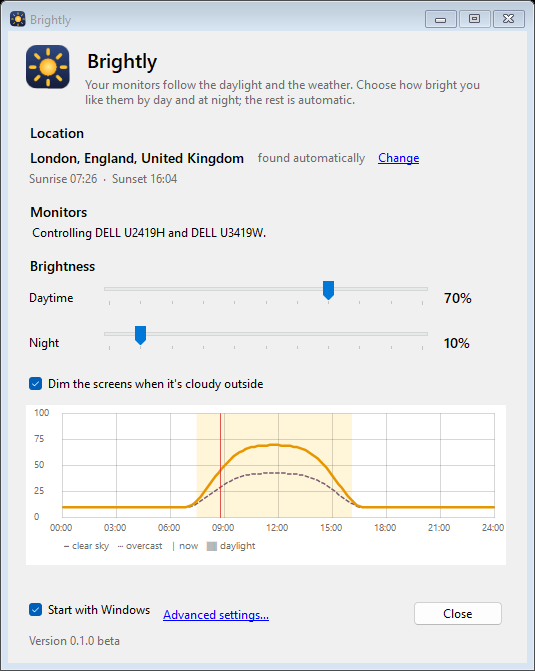
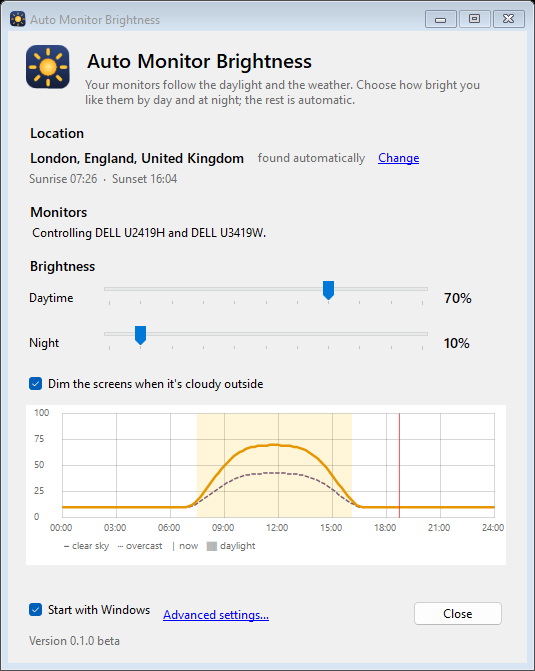
Rename to Auto Monitor Brightness
New exe, folders, startup entry and window titles. Existing Brightly
installs are migrated on first start: settings move over, the old copy is
stopped and removed, and the startup entry is replaced.

Changed region(s): [[0.0598, 0.0, 0.5981, 0.1192]]

diff --git a/src/Infra.cs b/src/Infra.cs
@@ -1,13 +1,13 @@
 using System.Runtime.InteropServices;
 using Microsoft.Win32;
 
-namespace Brightly;
+namespace AutoMonitorBrightness;
 
 public static class Log
 {
     public static readonly string Dir = Path.Combine(
-        Environment.GetFolderPath(Environment.SpecialFolder.ApplicationData), "Brightly");
-    public static string FilePath => Path.Combine(Dir, "brightly.log");
+        Environment.GetFolderPath(Environment.SpecialFolder.ApplicationData), "AutoMonitorBrightness");
+    public static string FilePath => Path.Combine(Dir, "AutoMonitorBrightness.log");
     static readonly object Sync = new();
     /// <summary>Turned off during uninstall so nothing recreates the data folder.</summary>
     public static bool Enabled = true;
@@ -36,7 +36,7 @@ public static class Autostart
     // Windows' own on/off switch for each Run entry (Settings → Apps → Startup, Task Manager → Startup apps).
     // Recent Windows 11 builds skip a Run entry that has no record here, so we write "enabled" ourselves.
     const string ApprovedPath = @"Software\Microsoft\Windows\CurrentVersion\Explorer\StartupApproved\Run";
-    const string Name = "Brightly";
+    const string Name = "AutoMonitorBrightness";
     static string Command => $"\"{Environment.ProcessPath}\" --autostart";
 
     /// <summary>True when the Run entry exists and Windows hasn't switched it off in Startup apps.</summary>
@@ -101,7 +101,7 @@ public sealed class PowerWatcher : NativeWindow, IDisposable
 
     public PowerWatcher()
     {
-        CreateHandle(new CreateParams { Caption = "BrightlyPowerWatcher" });
+        CreateHandle(new CreateParams { Caption = "AutoMonitorBrightnessPowerWatcher" });
         var g = Native.GUID_CONSOLE_DISPLAY_STATE;
         notification = Native.RegisterPowerSettingNotification(Handle, ref g, 0);
     }
@@ -153,18 +153,18 @@ public static class AppIcon
 
     static Icon Load()
     {
-        using var s = typeof(AppIcon).Assembly.GetManifestResourceStream("Brightly.ico")!;
+        using var s = typeof(AppIcon).Assembly.GetManifestResourceStream("AutoMonitorBrightness.ico")!;
         return new Icon(s);
     }
 }
 
-/// <summary>Keeps one copy of Brightly in %LOCALAPPDATA%\Programs\Brightly so autostart survives a cleaned Downloads folder.</summary>
+/// <summary>Keeps one copy of Auto Monitor Brightness in %LOCALAPPDATA%\Programs\AutoMonitorBrightness so autostart survives a cleaned Downloads folder.</summary>
 public static class Installer
 {
     public static readonly string Dir = Path.Combine(
-        Environment.GetFolderPath(Environment.SpecialFolder.LocalApplicationData), "Programs", "Brightly");
+        Environment.GetFolderPath(Environment.SpecialFolder.LocalApplicationData), "Programs", "AutoMonitorBrightness");
 
-    public static string InstalledExe => Path.Combine(Dir, "Brightly.exe");
+    public static string InstalledExe => Path.Combine(Dir, "AutoMonitorBrightness.exe");
 
     public static bool IsInstalledCopy =>
         string.Equals(Path.GetFullPath(Environment.ProcessPath ?? ""), Path.GetFullPath(InstalledExe), StringComparison.OrdinalIgnoreCase);
@@ -200,6 +200,52 @@ public static class Installer
             {
                 CreateNoWindow = true, UseShellExecute = false,
             });
+        }
+    }
+}
+
+/// <summary>One-time move from the app's old name (Brightly): settings, startup entry and the old program folder.</summary>
+public static class Migration
+{
+    const string OldName = "Brightly";
+
+    public static void FromOldName()
+    {
+        try
+        {
+            // Stop an old copy so the two don't fight over the monitors.
+            foreach (var p in System.Diagnostics.Process.GetProcessesByName(OldName))
+            {
+                try { p.Kill(); p.WaitForExit(3000); } catch { /* not ours to stop, or already gone */ }
+                p.Dispose();
+            }
+
+            var oldData = Path.Combine(Environment.GetFolderPath(Environment.SpecialFolder.ApplicationData), OldName);
+            var oldSettings = Path.Combine(oldData, "settings.json");
+            if (File.Exists(oldSettings) && !AppSettings.Exists)
+            {
+                Directory.CreateDirectory(Log.Dir);
+                File.Copy(oldSettings, AppSettings.FilePath);
+                Log.Write("Moved settings from the old Brightly install");
+            }
+            if (Directory.Exists(oldData)) Directory.Delete(oldData, true);
+
+            bool hadAutostart;
+            using (var run = Registry.CurrentUser.OpenSubKey(@"Software\Microsoft\Windows\CurrentVersion\Run", true))
+            {
+                hadAutostart = run?.GetValue(OldName) is string;
+                run?.DeleteValue(OldName, false);
+            }
+            using (var approved = Registry.CurrentUser.OpenSubKey(@"Software\Microsoft\Windows\CurrentVersion\Explorer\StartupApproved\Run", true))
+                approved?.DeleteValue(OldName, false);
+            if (hadAutostart) Autostart.Set(true);
+
+            var oldProgram = Path.Combine(Environment.GetFolderPath(Environment.SpecialFolder.LocalApplicationData), "Programs", OldName);
+            if (Directory.Exists(oldProgram)) Directory.Delete(oldProgram, true);
+        }
+        catch (Exception ex)
+        {
+            Log.Write("Migration from Brightly incomplete: " + ex.Message);
         }
     }
 }

diff --git a/src/TrayApp.cs b/src/TrayApp.cs
@@ -1,7 +1,7 @@
 using System.Diagnostics;
 using Microsoft.Win32;
 
-namespace Brightly;
+namespace AutoMonitorBrightness;
 
 public sealed class TrayApp : ApplicationContext
 {
@@ -38,7 +38,7 @@ public sealed class TrayApp : ApplicationContext
         advanced.DropDownItems.Add("Re-apply brightness now", null, (_, _) => _ = ctl.TickAsync(TickKind.Force, "re-apply requested"));
         advanced.DropDownItems.Add("Open log", null, (_, _) => OpenLog());
         advanced.DropDownItems.Add(new ToolStripSeparator());
-        advanced.DropDownItems.Add("Uninstall Brightly…", null, (_, _) => Uninstall());
+        advanced.DropDownItems.Add("Uninstall Auto Monitor Brightness…", null, (_, _) => Uninstall());
 
         var settings = new ToolStripMenuItem("Settings…", null, (_, _) => ShowSettings()) { Font = new Font(menu.Font, FontStyle.Bold) };
         menu.Items.AddRange(new ToolStripItem[]
@@ -52,7 +52,7 @@ public sealed class TrayApp : ApplicationContext
         menu.Opening += (_, _) => RefreshMenu();
 
         trayIcon = AppIcon.Sized(SystemInformation.SmallIconSize);
-        tray = new NotifyIcon { ContextMenuStrip = menu, Icon = trayIcon, Text = "Brightly", Visible = true };
+        tray = new NotifyIcon { ContextMenuStrip = menu, Icon = trayIcon, Text = "Auto Monitor Brightness", Visible = true };
         tray.MouseClick += (_, e) => { if (e.Button == MouseButtons.Left) ToggleSlider(); };
         tray.BalloonTipClicked += (_, _) => ShowSettings();
 
@@ -128,7 +128,7 @@ public sealed class TrayApp : ApplicationContext
 
     void RefreshUi()
     {
-        var tip = "Brightly\n" + StatusText();
+        var tip = "Auto Monitor Brightness\n" + StatusText();
         tray.Text = tip.Length > 127 ? tip[..127] : tip;
         if (menu.Visible) RefreshMenu();
         if (slider is { Visible: true }) slider.SetStatus(ShownBrightness(), StatusText());
@@ -138,7 +138,7 @@ public sealed class TrayApp : ApplicationContext
         if (!ctl.Settings.HasLocation && ctl.LocationError != null && !ctl.DetectingLocation && !windowOpen && !locationBalloonShown)
         {
             locationBalloonShown = true;
-            tray.ShowBalloonTip(10000, "Brightly", "Couldn't find your location automatically. Click here to choose your city.", ToolTipIcon.Info);
+            tray.ShowBalloonTip(10000, "Auto Monitor Brightness", "Couldn't find your location automatically. Click here to choose your city.", ToolTipIcon.Info);
         }
     }
 
@@ -183,9 +183,9 @@ public sealed class TrayApp : ApplicationContext
     void Uninstall()
     {
         var answer = MessageBox.Show(
-            "Remove Brightly from this PC?\n\nThis stops it, removes it from startup and deletes its settings. " +
+            "Remove Auto Monitor Brightness from this PC?\n\nThis stops it, removes it from startup and deletes its settings. " +
             "Your monitors stay at their current brightness.",
-            "Uninstall Brightly", MessageBoxButtons.OKCancel, MessageBoxIcon.Question, MessageBoxDefaultButton.Button2);
+            "Uninstall Auto Monitor Brightness", MessageBoxButtons.OKCancel, MessageBoxIcon.Question, MessageBoxDefaultButton.Button2);
         if (answer != DialogResult.OK) return;
         ExitThread();
         Installer.Uninstall();
@@ -193,7 +193,7 @@ public sealed class TrayApp : ApplicationContext
 
     protected override void ExitThreadCore()
     {
-        Log.Write("Brightly exiting");
+        Log.Write("Auto Monitor Brightness exiting");
         SystemEvents.SessionSwitch -= OnSessionSwitch;
         showWait.Unregister(null);
         ctl.Dispose();
@@ -225,7 +225,7 @@ public sealed class SliderPopup : Form
         AutoScaleDimensions = new SizeF(96F, 96F);
         AutoScaleMode = AutoScaleMode.Dpi;
         FormBorderStyle = FormBorderStyle.FixedToolWindow;
-        Text = "Brightly";
+        Text = "Auto Monitor Brightness";
         Font = new Font("Segoe UI", 9F);
         ShowInTaskbar = false;
         TopMost = true;

diff --git a/src/SettingsForm.cs b/src/SettingsForm.cs
@@ -1,4 +1,4 @@
-namespace Brightly;
+namespace AutoMonitorBrightness;
 
 /// <summary>
 /// The everyday window: where you are (found automatically), which monitors were found, and how bright you
@@ -39,7 +39,7 @@ public sealed class SettingsForm : Form
         SuspendLayout();
         AutoScaleDimensions = new SizeF(96F, 96F);
         AutoScaleMode = AutoScaleMode.Dpi;
-        Text = "Brightly";
+        Text = "Auto Monitor Brightness";
         Icon = AppIcon.Full;
         Font = new Font("Segoe UI", 9F);
         StartPosition = FormStartPosition.CenterScreen;
@@ -179,7 +179,7 @@ public sealed class SettingsForm : Form
             Image = new Icon(AppIcon.Full, 48, 48).ToBitmap(), SizeMode = PictureBoxSizeMode.Zoom,
             Size = new Size(44, 44), Margin = new Padding(0, 0, 12, 0),
         };
-        var title = new Label { Text = "Brightly", AutoSize = true, Font = new Font("Segoe UI Semibold", 15F), Margin = Padding.Empty };
+        var title = new Label { Text = "Auto Monitor Brightness", AutoSize = true, Font = new Font("Segoe UI Semibold", 15F), Margin = Padding.Empty };
         var sub = Grey("Your monitors follow the daylight and the weather. Choose how bright you like them by day and at night; the rest is automatic.");
         sub.MaximumSize = new Size(420, 0);
         var text = new FlowLayoutPanel { FlowDirection = FlowDirection.TopDown, AutoSize = true, WrapContents = false, Margin = Padding.Empty };
@@ -351,7 +351,7 @@ public sealed class SettingsForm : Form
         if (list.Count == 0)
             return !ctl.MonitorsScanned
                 ? "Looking for monitors…"
-                : "No external monitor found yet. Brightly controls monitors that support DDC/CI (most do; built-in laptop screens aren't supported yet).";
+                : "No external monitor found yet. Auto Monitor Brightness controls monitors that support DDC/CI (most do; built-in laptop screens aren't supported yet).";
         var ok = list.Where(m => m.Reachable).Select(m => m.Name).ToList();
         var bad = list.Where(m => !m.Reachable).Select(m => m.Name).ToList();
         var text = ok.Count switch

diff --git a/src/Program.cs b/src/Program.cs
@@ -1,4 +1,4 @@
-namespace Brightly;
+namespace AutoMonitorBrightness;
 
 internal static class Program
 {
@@ -8,15 +8,15 @@ internal static class Program
         if (args.Length > 0 && args[0] == "--selftest")
             return SelfTest.Run(args.Skip(1).ToArray());
 
-        using var mutex = new Mutex(true, @"Local\Brightly-SingleInstance", out bool first);
-        using var showSignal = new EventWaitHandle(false, EventResetMode.AutoReset, @"Local\Brightly-ShowSettings");
+        using var mutex = new Mutex(true, @"Local\AutoMonitorBrightness-SingleInstance", out bool first);
+        using var showSignal = new EventWaitHandle(false, EventResetMode.AutoReset, @"Local\AutoMonitorBrightness-ShowSettings");
         if (!first)
         {
             showSignal.Set(); // already running: just open its settings window
             return 0;
         }
 
-        // Run from Downloads (or anywhere else)? Copy into %LOCALAPPDATA%\Programs\Brightly and start that copy,
+        // Run from Downloads (or anywhere else)? Copy into %LOCALAPPDATA%\Programs\AutoMonitorBrightness and start that copy,
         // so autostart keeps working after the download is cleaned up. --portable skips this.
         if (!Installer.IsInstalledCopy && !args.Contains("--portable") && !args.Contains("--autostart") && Installer.TryInstallSelf())
         {
@@ -31,6 +31,7 @@ internal static class Program
         Application.ThreadException += (_, e) => Log.Write("UI error: " + e.Exception);
         AppDomain.CurrentDomain.UnhandledException += (_, e) => Log.Write("Fatal: " + e.ExceptionObject);
 
+        Migration.FromOldName();
         bool firstRun = !AppSettings.Exists;
         var settings = AppSettings.Load();
         if (firstRun)

diff --git a/src/AdvancedForm.cs b/src/AdvancedForm.cs
@@ -2,7 +2,7 @@ using System.Diagnostics;
 using System.Drawing.Drawing2D;
 using System.Globalization;
 
-namespace Brightly;
+namespace AutoMonitorBrightness;
 
 public sealed class AdvancedForm : Form
 {
@@ -50,7 +50,7 @@ public sealed class AdvancedForm : Form
         SuspendLayout();
         AutoScaleDimensions = new SizeF(96F, 96F);
         AutoScaleMode = AutoScaleMode.Dpi;
-        Text = "Brightly · Advanced settings";
+        Text = "Auto Monitor Brightness · Advanced settings";
         Icon = AppIcon.Full;
         StartPosition = FormStartPosition.CenterScreen;
         ClientSize = new Size(760, 740);
@@ -387,7 +387,7 @@ public sealed class AdvancedForm : Form
         var s = Build(errors);
         if (errors.Count > 0)
         {
-            MessageBox.Show(this, string.Join("\n", errors), "Brightly", MessageBoxButtons.OK, MessageBoxIcon.Warning);
+            MessageBox.Show(this, string.Join("\n", errors), "Auto Monitor Brightness", MessageBoxButtons.OK, MessageBoxIcon.Warning);
             return;
         }
         try
@@ -399,7 +399,7 @@ public sealed class AdvancedForm : Form
         }
         catch (Exception ex)
         {
-            MessageBox.Show(this, "Could not save settings: " + ex.Message, "Brightly", MessageBoxButtons.OK, MessageBoxIcon.Error);
+            MessageBox.Show(this, "Could not save settings: " + ex.Message, "Auto Monitor Brightness", MessageBoxButtons.OK, MessageBoxIcon.Error);
         }
     }
 

diff --git a/src/Controller.cs b/src/Controller.cs
@@ -1,4 +1,4 @@
-namespace Brightly;
+namespace AutoMonitorBrightness;
 
 public enum TickKind
 {
@@ -40,7 +40,7 @@ public sealed class Controller : IDisposable
 
     public void Start()
     {
-        Log.Write("Brightly started");
+        Log.Write("Auto Monitor Brightness started");
         _ = TickAsync(TickKind.Wake, "startup");
         _ = DetectLocationAsync();
         timer = new System.Threading.Timer(_ =>
@@ -259,7 +259,7 @@ public sealed class Controller : IDisposable
                 {
                     PausedUntilUtc = now.AddMinutes(Math.Max(5, s.OverrideMinutes));
                     PauseReason = $"manual change on {m.Name}";
-                    Log.Write($"{m.Name}: brightness changed outside Brightly ({expected}% → {cur}%). " +
+                    Log.Write($"{m.Name}: brightness changed outside Auto Monitor Brightness ({expected}% → {cur}%). " +
                               $"Pausing until {PausedUntilUtc.Value.ToLocalTime():HH:mm}.");
                 }
 

diff --git a/src/Weather.cs b/src/Weather.cs
@@ -2,7 +2,7 @@ using System.Globalization;
 using System.Net.Http.Headers;
 using System.Text.Json;
 
-namespace Brightly;
+namespace AutoMonitorBrightness;
 
 public sealed record WeatherSnapshot(
     double CloudCover,       // %
@@ -24,7 +24,7 @@ public sealed class WeatherService
     static HttpClient CreateClient()
     {
         var c = new HttpClient { Timeout = TimeSpan.FromSeconds(10) };
-        c.DefaultRequestHeaders.UserAgent.Add(new ProductInfoHeaderValue("Brightly", "1.0"));
+        c.DefaultRequestHeaders.UserAgent.Add(new ProductInfoHeaderValue("AutoMonitorBrightness", "0.1"));
         return c;
     }
 

diff --git a/src/SelfTest.cs b/src/SelfTest.cs
@@ -1,9 +1,9 @@
 using System.Globalization;
 using System.Text;
 
-namespace Brightly;
+namespace AutoMonitorBrightness;
 
-/// <summary>Brightly.exe --selftest out.txt [lat lon] — read-only diagnostics (never writes to the monitors).</summary>
+/// <summary>AutoMonitorBrightness.exe --selftest out.txt [lat lon] — read-only diagnostics (never writes to the monitors).</summary>
 internal static class SelfTest
 {
     public static int Run(string[] args)

diff --git a/src/Monitors.cs b/src/Monitors.cs
@@ -2,7 +2,7 @@ using System.Runtime.InteropServices;
 using System.Text;
 using Microsoft.Win32;
 
-namespace Brightly;
+namespace AutoMonitorBrightness;
 
 /// <summary>A physical monitor controlled over DDC/CI (VCP code 0x10 = luminance).</summary>
 public sealed class DisplayMonitor : IDisposable

diff --git a/src/Solar.cs b/src/Solar.cs
@@ -1,6 +1,6 @@
 using System.Collections.Concurrent;
 
-namespace Brightly;
+namespace AutoMonitorBrightness;
 
 /// <summary>Sun events for one local calendar day. Times are local; null when the event doesn't happen (polar day/night).</summary>
 public sealed record SunDay(

diff --git a/src/Engine.cs b/src/Engine.cs
@@ -1,6 +1,6 @@
 using System.Globalization;
 
-namespace Brightly;
+namespace AutoMonitorBrightness;
 
 public sealed record Evaluation(
     int Target,             // final brightness % (before per-monitor offsets)

diff --git a/src/AppSettings.cs b/src/AppSettings.cs
@@ -1,7 +1,7 @@
 using System.Text.Json;
 using System.Text.Json.Serialization;
 
-namespace Brightly;
+namespace AutoMonitorBrightness;
 
 public enum BrightnessMode { Sun, Schedule }
 
